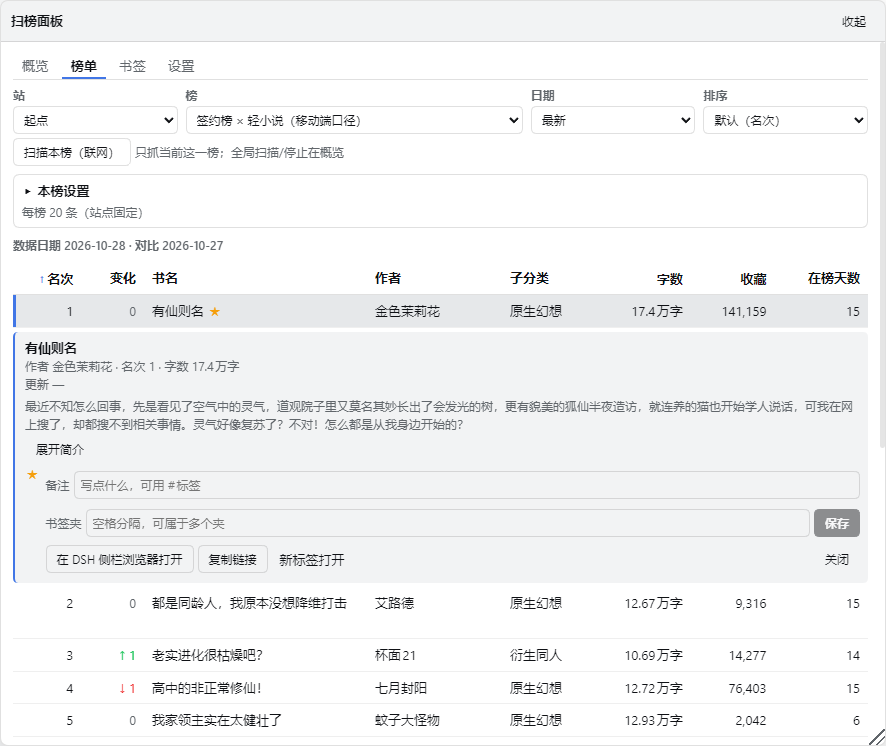
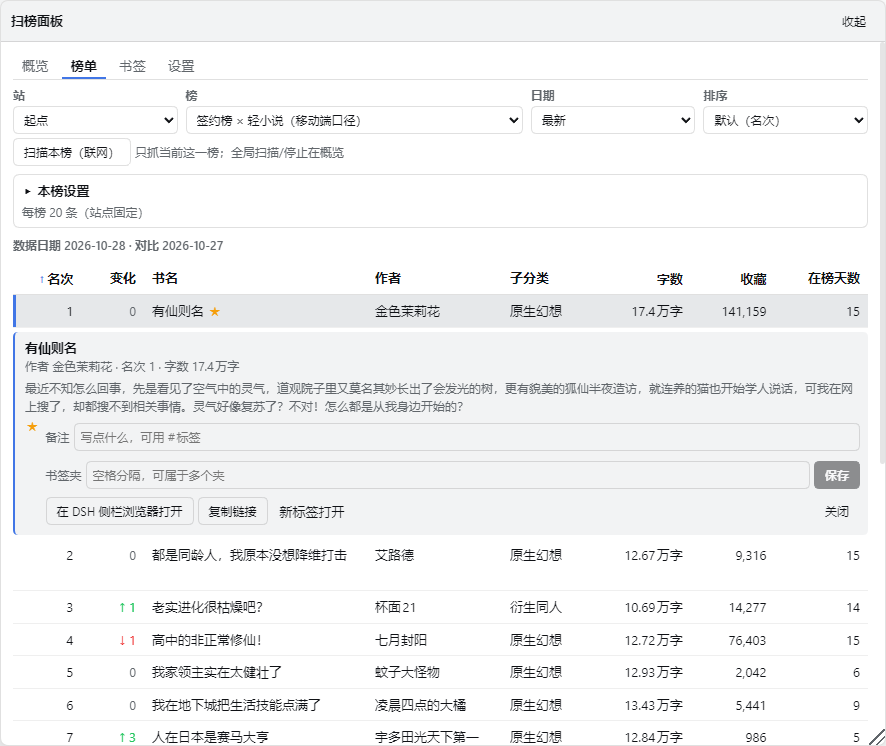
fix(rank-scan): 三江「日期」列按时间戳显示（原误标「首日增量」）+ 更新/展开简介两处小修

diff --git a/client/parts/70-board.js b/client/parts/70-board.js
@@ -55,19 +55,40 @@
       const lines = String(raw).replace(/\u3000/g, ' ').split(/\r?\n/).map(function (x) { return x.trim() }).filter(function (x) { return !!x })
       return lines.join('\n')
     }
-    /** 简介块：默认 3 行（-webkit-line-clamp），超出给「展开 / 收起」。没有简介就不渲染。 */
+    /**
+     * 简介块：默认 3 行（-webkit-line-clamp），**真的被截断时**才给「展开 / 收起」。没有简介就不渲染。
+     * ★ 2026-10-29：换成「实测溢出」判断（scrollHeight > clientHeight），窗口尺寸变化时重新量 ——
+     *   原来按字数猜（>60 字就给按钮），900 宽下简介只占两行、根本没截断也照样出按钮。
+     */
     function BoardDesc(props) {
       const [open, setOpen] = React.useState(false)
+      const [over, setOver] = React.useState(false)
+      const textRef = React.useRef(null)
       const text = cleanDesc(props.text)
+      React.useEffect(function () {
+        if (!text) return undefined
+        const measure = function () {
+          const el = textRef.current
+          if (!el) return
+          // 收起态才量得出「被截断」；展开态下 scrollHeight == clientHeight
+          setOver(el.scrollHeight - el.clientHeight > 1)
+        }
+        measure()
+        // 字体/宽度变化都会改变行数：窗口 resize 与面板宽度变化都重量一次
+        if (typeof window !== 'undefined' && window.addEventListener) window.addEventListener('resize', measure)
+        return function () {
+          if (typeof window !== 'undefined' && window.removeEventListener) window.removeEventListener('resize', measure)
+        }
+      }, [text, open])
       if (!text) return null
-      const long = text.length > 60 || text.indexOf('\n') >= 0
       return h('div', { style: { marginTop: '4px' } },
         h('div', {
+          ref: textRef,
           style: open
             ? { ...C.muted, whiteSpace: 'pre-line', lineHeight: 1.5 }
             : { ...C.muted, whiteSpace: 'pre-line', lineHeight: 1.5, display: '-webkit-box', WebkitLineClamp: 3, WebkitBoxOrient: 'vertical', overflow: 'hidden' },
         }, text),
-        long
+        (over || open)
           ? h('button', { className: 'rs-btn is-ghost', style: { marginTop: '2px' }, onClick: function (e) { if (e && e.stopPropagation) e.stopPropagation(); setOpen(!open) } }, open ? '收起简介' : '展开简介')
           : null)
     }
@@ -490,7 +511,10 @@
         return h('div', { style: { ...C.detail, marginTop: '4px' } },
           h('div', { style: { fontWeight: 600 } }, dash(r.title)),
           h('div', { style: C.muted }, '作者 ' + dash(r.author) + ' · 名次 ' + dash(r.rank) + ' · 字数 ' + fmtWords(ex.wordsText || ex.wordsCnt || ex.wordNumber || ex.words)),
-          h('div', { style: C.muted }, '更新 ' + fmtTime(ex.lastChapterUpdateTime)),
+          // 「更新」只有番茄榜单页给（lastChapterUpdateTime）；没这个字段的榜整行不渲染，不显示「更新 —」
+          ex.lastChapterUpdateTime != null && Number(ex.lastChapterUpdateTime) > 0
+            ? h('div', { style: C.muted }, '更新 ' + fmtTime(ex.lastChapterUpdateTime))
+            : null,
           // 简介：只有真有 desc 的行才渲染（没有就整块不出现，不显示「—」）
           h(BoardDesc, { text: ex.desc }),
           // 被当前宽度收起的列：在这里逐条列出（label + 与表格完全相同的渲染）

diff --git a/client/parts/55-board-cell.js b/client/parts/55-board-cell.js
@@ -2,6 +2,20 @@
  * 55-board-cell.js：榜单表格单元格 cell、榜名记忆与 boardLabel。依赖 10/20。不要放 BoardTab 本体。
  * 这个文件是同一闭包里的连续片段；顶层执行顺序由文件名排序保证。
  */
+    /**
+     * Unix 秒 → 「MM-DD HH:mm」（东八区固定偏移）。
+     * 只用于**确定是时间戳**的列（三江「日期」）；拿不到合理时间戳一律「—」，绝不把裸数字放出去。
+     */
+    const fmtStamp = function (sec) {
+      const n = Number(sec)
+      if (!isFinite(n) || n < 1e9) return '—'
+      const d = new Date(n * 1000)
+      if (isNaN(d.getTime())) return '—'
+      // ★ 固定 +8h 再按 UTC 读：不受运行环境时区影响（数据源本来就是北京时间）
+      const t = new Date(d.getTime() + 8 * 3600 * 1000)
+      const p2 = function (x) { return (x < 10 ? '0' : '') + x }
+      return p2(t.getUTCMonth() + 1) + '-' + p2(t.getUTCDate()) + ' ' + p2(t.getUTCHours()) + ':' + p2(t.getUTCMinutes())
+    }
     function cell(c, r) {
       const k = c.key
       const ex = r.extra || {}
@@ -70,7 +84,8 @@
       if (k === 'periodDelta') return ex.periodDelta == null ? '—' : (ex.periodDelta > 0 ? '+' : '') + ex.periodDelta
       // 0.6 收尾补列：都已在快照里，只是之前没有列。空值一律「—」，不补 0
       if (k === 'shouding') return dash(ex.shouding)
-      if (k === 'firstDay') return ex.firstDay == null ? '—' : (ex.firstDay > 0 ? '+' + ex.firstDay : String(ex.firstDay))
+      // ★ 2026-10-29 口径修正：三江这一列是「日期」（Unix 秒时间戳），不是「首日增量」⇒ 显示成 MM-DD HH:mm
+      if (k === 'firstDay') return fmtStamp(ex.firstDay)
       if (k === 'firstV') return dash(ex.firstV)
       if (k === 'update') return dash(ex.update)
       if (k === 'collect') return fmtRead(ex.collect)

diff --git a/src/scan/view.ts b/src/scan/view.ts
@@ -217,10 +217,12 @@ export function columnsFor(meta: BoardMeta, flags: ColumnFlags = { hasBaseline: 
   if (qidiantu && meta.boardId === 'qidiantu.sanjiang') {
     // ★ 列序（使用者 2026-10-15）：**字数紧跟在「分类」后面**（三江源里没有字数字段，值取自起点书页）
     cols.push({ key: 'words', label: '字数', note: '三江源里没有字数字段，取自起点书页（走书页缓存）' })
-    // 0.6 收尾补列：三江页第 6/7 列（首订 / 首日增量）一直在快照里（extra.shouding / extra.firstDay），之前没有列
+    // 0.6 收尾补列：三江页第 6/7 列（首订 / 日期）一直在快照里（extra.shouding / extra.firstDay），之前没有列
+    // ★ 2026-10-29 口径修正：extra.firstDay 存的**不是**「首日增量」，是站点表头写的「日期」列，
+    //   实测是 Unix 秒时间戳（= 该书上架/首V 时刻）。列名与显示都按时间戳处理，不参与数字右对齐。
     cols.push(
       { key: 'shouding', label: '首订', note: '三江页「首订」列（起点图口径；站点多数行不给值 ⇒ 显示「—」），与收藏增量不同源' },
-      { key: 'firstDay', label: '首日增量', note: '三江页「初始」下的首日收藏增量（期首那天）；未给值 ⇒ 「—」' },
+      { key: 'firstDay', label: '上架', note: '三江页「日期」列：Unix 秒时间戳（= 上架/首V 时刻，与首订榜「首V时刻」同行同分），显示 MM-DD HH:mm（东八区）；未给值 ⇒ 「—」' },
     )
     cols.push({ key: 'collectBase', label: '期初收藏' }, { key: 'dailyDelta', label: '今日增量', note: '今天那天的收藏增量；未到的天「—」' })
     // ★ 每日增量拆成 7 列（2026-10-15 使用反馈）：原先 7 天的值挤在一个单元格里，读不出来。

diff --git a/client/parts/90-tail.js b/client/parts/90-tail.js
@@ -111,7 +111,7 @@
     bmPage: BM_PAGE,
     bmSortKey: BM_SORT_KEY,
     bmSortOptions: BM_SORT_OPTIONS,
-    helpers: { cell: cell, metaDot: metaDot, cleanDesc: cleanDesc, revOf: revOf, statusText: statusText, scanLabel: scanLabel, pollDelay: pollDelay, canDayQuery: canDayQuery, fitColumns: fitColumns, colPrio: colPrio, mdOf: mdOf, boardLabel: boardLabel, rememberBoardNames: rememberBoardNames },
+    helpers: { cell: cell, metaDot: metaDot, cleanDesc: cleanDesc, fmtStamp: fmtStamp, revOf: revOf, statusText: statusText, scanLabel: scanLabel, pollDelay: pollDelay, canDayQuery: canDayQuery, fitColumns: fitColumns, colPrio: colPrio, mdOf: mdOf, boardLabel: boardLabel, rememberBoardNames: rememberBoardNames },
     components: { Overview: Overview, BoardTab: BoardTab, BookmarksTab: BookmarksTab, SettingsTab: SettingsTab, PopMenu: PopMenu, Panel: Panel, ToastHost: ToastHost, StatCard: StatCard, SectionHeader: SectionHeader },
     nextPlanOf: nextPlanOf,
     toast: toast, toastStore: toastStore, lastNote: lastNote, settingsDiff: settingsDiff,

diff --git a/client/parts/20-ui-kit.js b/client/parts/20-ui-kit.js
@@ -96,8 +96,8 @@
      * ★ 2026-10-17（易用性 P0）：哪些列算「数字列」—— 只有它们套 C.num（不折行 + 等宽数字）。
      *   书名/作者/分类这类文本列仍允许换行，否则长书名会把整张表撑宽。
      */
-    // 0.6 收尾：新增的首订 / 首日增量也是数字列（右对齐 + 等宽数字）
-    const NUM_COL_RE = /^(rank|delta|words|collect|collectBase|value|ratio|fans|read|readDelta|periodTotal|periodDelta|score|days|buyNumRaw|shouding|firstDay|daily\d*|pday\d*)$/
+    // 0.6 收尾：新增的「首订」是数字列（右对齐 + 等宽）；「上架」是时间戳列，按文本左对齐
+    const NUM_COL_RE = /^(rank|delta|words|collect|collectBase|value|ratio|fans|read|readDelta|periodTotal|periodDelta|score|days|buyNumRaw|shouding|daily\d*|pday\d*)$/
     const isNumCol = (key) => NUM_COL_RE.test(String(key || ''))
     const dash = (v) => (v === null || v === undefined || v === '' ? '—' : v)
     /**

diff --git a/docs/handoff-2026-10-28-ui-polish-0.6.md b/docs/handoff-2026-10-28-ui-polish-0.6.md
@@ -116,7 +116,7 @@ A–E 全部按方案落地，离线闸门 442 pass / 0 fail，acceptance -SkipL
 | # | 事项 | 落点 | 备注 |
 |---|---|---|---|
 | 1 | 起点简介进展开详情 | `70-board.js`（`cleanDesc` + `BoardDesc`） | 只读 `extra.desc`；去 U+3000 与空行；3 行 clamp；无值整块不渲染 |
-| 2 | 补四列 | `view.ts`（`columnsFor`）、`55-board-cell.js`（`cell`）、`20-ui-kit.js`（`NUM_COL_RE`）、`70-board.js`（`CHIP_ALWAYS`） | 三江 首订/首日增量、首订榜 首V、刺猬猫 最近更新；空值「—」 |
+| 2 | 补四列 | `view.ts`（`columnsFor`）、`55-board-cell.js`（`cell`/`fmtStamp`）、`20-ui-kit.js`（`NUM_COL_RE`）、`70-board.js`（`CHIP_ALWAYS`） | 三江 首订/上架、首订榜 首V、刺猬猫 最近更新；空值「—」 |
 | 3 | 抓取范围一站一行 | `50-settings.js` | 「已选 x / y」+「⋯」菜单（全选/全不选/补齐缺失）；默认折叠；`setAll(false)` 顺手收起 |
 | 4 | 起点榜条数置灰 | `70-board.js`（`qidianFixed`/`depthLocked`） | **客户端置灰**：宿主 `catalog()` 对 `qidian.*` 仍报 `canDepth: true`（cap 20 > 10），真正的校验留待 0.7；config 里的旧值保留不动 |
 
@@ -136,7 +136,7 @@ A–E 全部按方案落地，离线闸门 442 pass / 0 fail，acceptance -SkipL
 
 ### 闸门（收尾后）
 
-- `test-local`：**450 pass / 0 fail**（起始基线 445；新增 5 条）
+- `test-local`：**453 pass / 0 fail**（起始基线 445；新增 8 条）
 - `acceptance -SkipLive`：**100 pass / 0 fail**
 
 ### 截图（docs/screenshots/polish-0.6/）
@@ -145,6 +145,15 @@ A–E 全部按方案落地，离线闸门 442 pass / 0 fail，acceptance -SkipL
 - docs/screenshots/polish-0.6/board-900-light-sanjiang.png（三江：首订 / 首日增量两列）
 - docs/screenshots/polish-0.6/board-480-dark-desc.png（480 暗色，起点展开一行）
 - docs/screenshots/polish-0.6/pick-900-light-ranges.png（设置 · 抓取范围：起点图展开、其余折叠、「⋯」菜单打开）
+
+### 发布前口径更正（2026-10-29）
+
+- 三江第二列**不是**「首日增量」：`qidiantu.ts` 取的是 `cells[6]`，站点表头写的是**「日期」**，值是 Unix 秒时间戳（`1793000228` = 2026-10-26 15:37 东八区）。交叉验证：「我的转职是小游戏玩家」在三江是 `1793074419`（2026-10-27 12:13）、在首订榜 `firstV` 是 `12:13` —— 同一时刻 ⇒ 就是上架/首V 时间。
+  - 处理：列名改「上架」，显示 `MM-DD HH:mm`（固定 +8h 换算，不受运行时区影响），不加 `+`，不参与数字右对齐；`NUM_COL_RE` 里移除 `firstDay`。断言：这一列渲染结果不得是 `>1e9` 的裸数字。
+  - 三江页真正的「每日收藏增量」在 `extra.daily[]`（7 天）+ `extra.totalDelta`，**没有**「首日增量」这个字段。
+- 同批核对无误：`extra.shouding` = 真实首订数（大话华娱 3362、不许没收我的仙籍！817、我的转职是小游戏玩家 851，与首订榜同名同值）；`extra.firstV` = `12:13` 这类时刻文本（不是时间戳）。
+- 另修两处小问题：详情卡「更新 —」（起点没有 `lastChapterUpdateTime`）整行不渲染；「展开简介」改为**实测溢出**（`scrollHeight > clientHeight`，resize 重量）才出现，900 宽两行简介不再出按钮。
+- **已知未修（0.6 之前就这样）**：三江「今日增量」整列是「—」。原因是 `cell` 读 `ex.dailyDelta`，而三江行只有 `extra.daily[]` / `extra.totalDelta`，v0.5.2 的代码同样如此 ⇒ 与你说的「0.6 之前也一样」相符；真正的值是「第 N 天」那几列 + 期累计。
 
 ## 发布后必须人工确认的一条（暗色）
 

diff --git a/CHANGELOG.md b/CHANGELOG.md
@@ -45,7 +45,8 @@
 ### 收尾（发布前，只做展示层）
 
 - **起点简介**：榜单行展开详情显示 `extra.desc`（榜单页自带）——去掉全角空格与空行，默认 3 行、超出给「展开简介」，没有简介的行整块不出现（不显示「—」）。宽表与窄屏卡片共用同一个详情卡。
-- **补四列**（数据早已落盘，只是没列）：起点图三江「首订」「首日增量」，起点图首订榜「首V」，刺猬猫两个榜「最近更新」。空值一律「—」；首订/首日增量按数字列右对齐；列说明写清来源；480 宽时进卡片中点串（空值不显示该项）。
+- **补四列**（数据早已落盘，只是没列）：起点图三江「首订」「上架」，起点图首订榜「首V」，刺猬猫两个榜「最近更新」。空值一律「—」；「首订」按数字列右对齐；列说明写清来源；480 宽时进卡片中点串（空值不显示该项）。
+- **口径更正**：三江那一列原本按「首日增量」显示（`+1793000228` 这种裸数字），实际站点表头是「日期」、存的是 Unix 秒时间戳（= 上架/首V 时刻）⇒ 改名「上架」并显示 `MM-DD HH:mm`（东八区），不再加 `+`、不参与数字右对齐。同批核对：「首订」`extra.shouding` 是真实首订数（3362 / 817 / 851），首订榜「首V」`extra.firstV` 是 `12:13` 这类时刻文本，两者口径无误。
 - **抓取范围改版**：一站一行，标题显示「站点 · 已选 x / y」，右上「⋯」菜单收「全选 / 全不选 / 补齐缺失（联网）」；分类勾选默认折叠，全不选后自动收起。保存语义不变。
 - **修假设置**：起点移动端榜单是站点固定 20 条，`depth` 对它不生效 —— 该榜的「每榜取多少条」置灰并注明「站点固定 20 条」，config 里的旧值保留不动、只是不再可改（宿主 catalog 仍报 canDepth:true，留待 0.7）。
 
